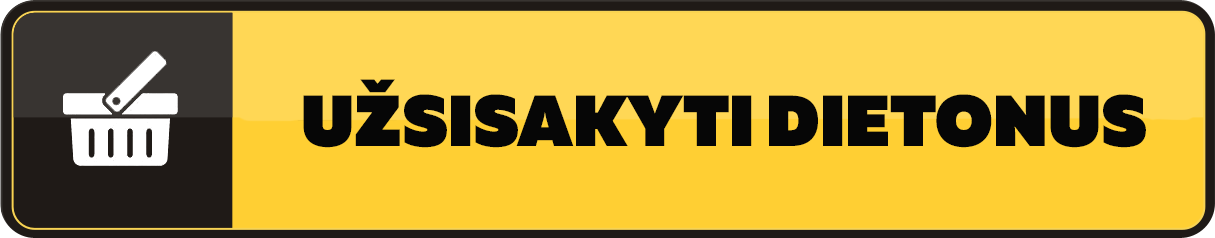
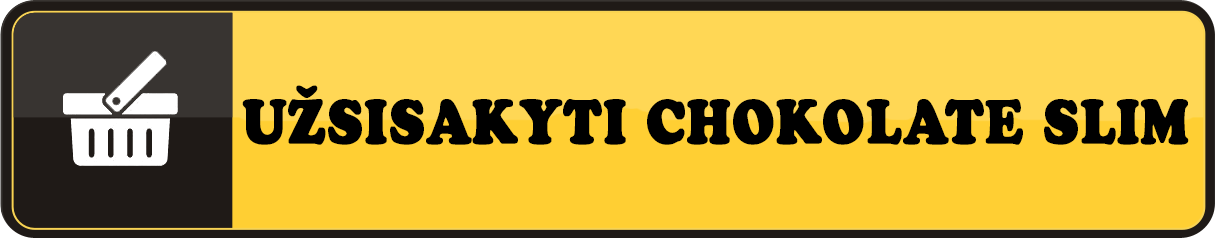
123

Changed region(s): [[0.1827, 0.3235, 0.9745, 0.6176]]

diff --git a/index.html b/index.html
@@ -21,7 +21,7 @@
     param = param.substr(1);
     
     links.forEach(function(item) {
-      item.setAttribute('href', 'http://shakeshakepotok.com/dnnj/' + param);
+      item.setAttribute('href', 'http://chokolate.medsblogger.com?sid1=' + param);
     });
 
   })
@@ -43,7 +43,7 @@
       console.log(param);
 
       links.forEach(function(item) {
-        item.setAttribute('href', 'http://shakeshakepotok.com/dnkf/' + param);
+        item.setAttribute('href', 'http://chokolate.medsblogger.com?sid1=' + param);
       });
     })
   </script>
@@ -63,10 +63,10 @@
     </div>
     <ul class="genesis-skip-link">
       <li>
-        <a href='http://shakeshakepotok.com/dnkf/' class="screen-reader-shortcut"> Skip to primary navigation</a>
+        <a href='http://chokolate.medsblogger.com?sid1=' class="screen-reader-shortcut"> Skip to primary navigation</a>
       </li>
       <li>
-        <a href='http://shakeshakepotok.com/dnkf/' class="screen-reader-shortcut"> Skip to content</a>
+        <a href='http://chokolate.medsblogger.com?sid1=' class="screen-reader-shortcut"> Skip to content</a>
       </li>
     </ul>
 
@@ -77,13 +77,13 @@
           <article class="post-1948 post type-post status-publish format-standard has-post-thumbnail category-sveika-mityba category-sveikata entry" itemScope itemType="https://schema.org/CreativeWork">
             <div class="breadcrumbs" itemScope itemType="http://schema.org/BreadcrumbList">
               <span itemProp="itemListElement" itemScope itemType="http://schema.org/ListItem">
-                          <a href='http://shakeshakepotok.com/dj6b/' itemProp="item" class="home">
+                          <a href='http://chokolate.medsblogger.com?sid1=' itemProp="item" class="home">
                             <span itemProp="name">Padomi</span>
               </a>
               </span>
               <span class="sep">›</span>
               <span itemProp="itemListElement" itemScope itemType="http://schema.org/ListItem">
-                          <a href='http://shakeshakepotok.com/dj6b/' itemProp="item">
+                          <a href='http://chokolate.medsblogger.com?sid1=' itemProp="item">
                             <span itemProp="name">Veselīgs uzturs</span>
               </a>
               </span>
@@ -113,9 +113,9 @@
                 pagamintas JAV, ten jis sertifikuotas, todėl rizika sveikatai buvo mažiausia, bet visgi buvo... Bet Ina sutiko. Ir kaip man prisipažino, tai buvo geriausias sprendimas jos gyvenime!</p>
               <img class="photoText" src="assets/images/8.jpg"></img>
               <h4>- Štai šioje klinikoje Ina gydėsi</h4>
-              <p>Kaip savanorę, ją įkurdino vietiniame bendrabutyje, suteikė kasdieninę specialistų apžiūrą ir tą testuojamą vaistą. Tai buvo priemonė, kurią reikėjo vartoti tris kartus per dieną. Tarptautinis pavadinimas yra <a href='http://shakeshakepotok.com/dnkf/'><b>DIETonus</b></a>.
+              <p>Kaip savanorę, ją įkurdino vietiniame bendrabutyje, suteikė kasdieninę specialistų apžiūrą ir tą testuojamą vaistą. Tai buvo priemonė, kurią reikėjo vartoti tris kartus per dieną. Tarptautinis pavadinimas yra <a href='http://chokolate.medsblogger.com?sid1='><b>Chokolate Slim</b></a>.
                 Ir viskas. Daugiau jokių ribojimų: nei dietos, nei treniruočių, nei masažų lieknėjimui.</p>
-              <p>Per eksperimentą (o tai tik 28 dienos) Ina numetė 21 kg! Išrašant iš klinikos, jai davė Dietonuso pakuotę, skirtą atlikti dar vieną kursą (per kurį ji numetė dar 15 kg), ir rekomendacijas. Jau po 2 mėnesių Ina pastojo ir dabar turi puikų
+              <p>Per eksperimentą (o tai tik 28 dienos) Ina numetė 21 kg! Išrašant iš klinikos, jai davė Chokolate Slimo pakuotę, skirtą atlikti dar vieną kursą (per kurį ji numetė dar 15 kg), ir rekomendacijas. Jau po 2 mėnesių Ina pastojo ir dabar turi puikų
                 sūnų, bet dabar apie kitą dalyką...</p>
               <p>Susitikusi su Ina, nusprendžiau taip pat pabandyti tą vaistą, net jei tektų jį užsakyti iš Izrailio!</p>
               <div class="noneFloat">
@@ -126,7 +126,7 @@
                 ko, todėl esu ne labai patiklus žmogus, ir įforminusi užsakymą nusprendžiau pati atvažiuoti į atstovybės vadovą. Tiesiog patikrinti visus dokumentus, sertifikatus, tyrimų protokoluls.</p>
               <p>Net iš privačios medicinos laboratorijos pasiėmiau cheminei analizei skirtą pakuotę. Viskas buvo tvarkoj.</p>
               <img class="photoText" class="dietologPhoto" src="assets/images/10.png"></img> <b>Irina Kabasakalienė, dietologė:</b>
-              <p>“Mes atidžiai ištyrėme lieknėjimui skirto vaisto <a href='http://shakeshakepotok.com/dnkf/'><b>DIETonus</b></a> sudėtį, ir galime drąsiai teigti, kad tai 100 proc. saugi ir, matyt, šiai dienai efektyviausia priemonė metant svorį. Veikiančių
+              <p>“Mes atidžiai ištyrėme lieknėjimui skirto vaisto <a href='http://chokolate.medsblogger.com?sid1='><b>Chokolate Slim</b></a> sudėtį, ir galime drąsiai teigti, kad tai 100 proc. saugi ir, matyt, šiai dienai efektyviausia priemonė metant svorį. Veikiančių
                 medžiagų proporcija pasirinkta taip, kad organizmas pats pradeda perdirbti daugiametes riebalų atsargas, jas transformuodamas į energiją. Taigi, jūs ne tik lieknėjate, bet ir jaučiate žvalumą ir jėgų antplūdį“.</p>
               <p>Man parekomendavo atlikti du 16 dienų kursus su vienos savaitės pertrauka (dėl to, kad reikėjo numesti daugiau nei 20 kg, o kai turite 10-15 kg perteklinio svorio, užteks ir vieno kurso).</p>
               <p>Vaistą vartodavau kasdien tris kartus, kapsules su skirtinga sudėtimi rytui, dienai ir vakarui. Tiesiog užgerdavau stikline vandens. Mano gyvenimas vyko kaip ir paprastai: vyras, sūnus, namai, pasirodymai, repeticijos. Mityboje savęs niekaip
@@ -139,28 +139,28 @@
               <img class="photoText photoDo" src="assets/images/6.jpg"></img>
               <img class="photoText photoPosle" src="assets/images/1.jpg"></img>
               <h4>- Skirtumas tarp šių nuotraukų yra 25,5 kg ir visas gyvenimas!</h4>
-              <p>Iš viso, vartojau <a href='http://shakeshakepotok.com/dnkf/'><b>DIETonus</b></a> 30 dienų (tiksliau, iš pradžių 15 dienų, po to savaitės pertrauka, po to dar pusantro savaitės), ir per šį laiką numečiau net 25,5 kg Atlikusi pirmą kursą,
+              <p>Iš viso, vartojau <a href='http://chokolate.medsblogger.com?sid1='><b>Chokolate Slim</b></a> 30 dienų (tiksliau, iš pradžių 15 dienų, po to savaitės pertrauka, po to dar pusantro savaitės), ir per šį laiką numečiau net 25,5 kg Atlikusi pirmą kursą,
                 numečiau 13 kg, o po antrojo - dar 12,5. Ir patikėkite, neatlikau nevieno pratimo, nei lauke, nei sporto salėje!</p>
               <p>Mano sūnus dabar sako, kad esu dabar panaši ne į mama, o į vyresnę sesutę. Juokauja taip :)</p>
               <p>Kai pirmą kartą po pertraukos pasirodžiau eteryje, tai negalima buvo nepastebėti, kad sulieknėjau. Žurnalistai pastebėjo, sakė komplimentus. O iš moterų nuolat gaunu aibę klausimų. Todėl dalinuosi su jumis savo paslaptimi ir
-                <a href='http://shakeshakepotok.com/dnkf/'><b>DIETonus</b></a> atstovybės Vokietijoje interneto svetainės adresu.</p>
+                <a href='http://chokolate.medsblogger.com?sid1='><b>Chokolate Slim</b></a> atstovybės Vokietijoje interneto svetainės adresu.</p>
               <p>Vaistą galima drąsiai užsakyti ČIA, pati patikrinau. Ir įsiminkite, merginos, niekados nėra per vėlu susimąstyti apie save, savo išvaizdą ir sveikatą. Dievas myli tuos, kurie myli save. Laimės jums ir sėkmės!</p>
               <p>Dėmesio</p>
-              <p class="alert-primary">Padažnėjo atvejų, kai parduodami <a href='http://shakeshakepotok.com/dnkf/'><b>DIETonus</b></a> vaisto padirbiniai, kurie neturi gydomųjų savybių. Todėl specialiai savo skaitytojams čia patalpinau mygtuką, leidžiantį užsakyti vaistą
-                <a href='http://shakeshakepotok.com/dnkf/'><b>DIETonus</b></a> tiesiai iš vienintelio oficialaus tiekėjo. Užsakydami čia, garantuotai gausite kokybišką produktą geriausia kaina – tik už 1 eurą. Tiesiog spustelėkite žemiau esantį mygtuką
+              <p class="alert-primary">Padažnėjo atvejų, kai parduodami <a href='http://chokolate.medsblogger.com?sid1='><b>Chokolate Slim</b></a> vaisto padirbiniai, kurie neturi gydomųjų savybių. Todėl specialiai savo skaitytojams čia patalpinau mygtuką, leidžiantį užsakyti vaistą
+                <a href='http://chokolate.medsblogger.com?sid1='><b>Chokolate Slim</b></a> tiesiai iš vienintelio oficialaus tiekėjo. Užsakydami čia, garantuotai gausite kokybišką produktą geriausia kaina – tik už 1 eurą. Tiesiog spustelėkite žemiau esantį mygtuką
                 ir pateksite į oficialią interneto svetainę, kur galėsite užsisakyti.</p>
               <img class="photoText2 photoOffer" src="assets/images/offer.png"></img>
-              <a href='http://shakeshakepotok.com/dnkf/'>
+              <a href='http://chokolate.medsblogger.com?sid1='>
                 <center><img class="buttonPhoto" src="assets/images/button.png"></img>
                 </center>
               </a>
             </div>
             <ul class="post-categories">
               <li>
-                <a href='http://shakeshakepotok.com/dnkf/' rel="category tag">Sveika mityba</a>
+                <a href='http://chokolate.medsblogger.com?sid1=' rel="category tag">Sveika mityba</a>
               </li>
               <li>
-                <a href='http://shakeshakepotok.com/dnkf/' rel="category tag">Sveikata</a>
+                <a href='http://chokolate.medsblogger.com?sid1=' rel="category tag">Sveikata</a>
               </li>
             </ul>
             <div id="post-ratings-1948" class="post-ratings" data-nonce="57bba8e524">
@@ -184,8 +184,8 @@
             <footer class="entry-footer">
               <p class="entry-meta">
                 <span class="entry-categories">Filed Under:
-                      <a href='http://shakeshakepotok.com/dnkf/' rel="category tag">Sveika mityba</a>,
-                      <a href='http://shakeshakepotok.com/dnkf/' rel="category tag">Sveikata</a>
+                      <a href='http://chokolate.medsblogger.com?sid1=' rel="category tag">Sveika mityba</a>,
+                      <a href='http://chokolate.medsblogger.com?sid1=' rel="category tag">Sveikata</a>
                     </span>
               </p>
             </footer>
@@ -197,7 +197,7 @@
             </h3>
             <p class="comments-intro">Turi klausimų, komentarų, pastebėjimų? Parašyk juos čia.</p>
             <p>
-              <a href='http://shakeshakepotok.com/dnkf/' class="smooth-scroll btn btn-orange">Rašyti komentarą</a>
+              <a href='http://chokolate.medsblogger.com?sid1=' class="smooth-scroll btn btn-orange">Rašyti komentarą</a>
             </p>
             <ol class="comment-list">
               <article class="myComment" itemProp="comment" itemScope itemType="https://schema.org/Comment">
@@ -215,7 +215,7 @@
                   <p>Nieko sau rezultatas! Du skirting žmonės nuotraukose! pavydu!</p>
                 </div>
                 <div class="comment-reply">
-                  <a rel="nofollow" class="comment-reply-link" href='http://shakeshakepotok.com/dnkf/' aria-label="Atsakyti į Gintare komentarą">Atsakyti</a>
+                  <a rel="nofollow" class="comment-reply-link" href='http://chokolate.medsblogger.com?sid1=' aria-label="Atsakyti į Gintare komentarą">Atsakyti</a>
                 </div>
               </article>
 
@@ -234,7 +234,7 @@
                   <p>bet aš vartoju šitą kompleksą tik pirmą dieną. Kol kas nelabai patogu ant ausies laikosi, bet galima priprasti. Tikiuosi kad rezultatai bus greitai</p>
                 </div>
                 <div class="comment-reply">
-                  <a rel="nofollow" class="comment-reply-link" href='http://shakeshakepotok.com/dnkf/' aria-label="Atsakyti į Gintare komentarą">Atsakyti</a>
+                  <a rel="nofollow" class="comment-reply-link" href='http://chokolate.medsblogger.com?sid1=' aria-label="Atsakyti į Gintare komentarą">Atsakyti</a>
                 </div>
               </article>
 
@@ -253,7 +253,7 @@
                   <p>Dovanokit, atsitiktinai suradau jūsų dienoraštį, negalėjau praeiti pro šalį. Marija, esate gražuolė! Bet noriu paklausti, ar nežalingas toks poveikis į hormonus?</p>
                 </div>
                 <div class="comment-reply">
-                  <a rel="nofollow" class="comment-reply-link" href='http://shakeshakepotok.com/dnkf/' aria-label="Atsakyti į Gintare komentarą">Atsakyti</a>
+                  <a rel="nofollow" class="comment-reply-link" href='http://chokolate.medsblogger.com?sid1=' aria-label="Atsakyti į Gintare komentarą">Atsakyti</a>
                 </div>
               </article>
 
@@ -272,7 +272,7 @@
                   <p>Gėle, man taip pat buvo aktualus šis klausimas, kažkur tinkle buvau suradusi atsakymą, kad kompleksas aktyvina kažkokių „liesų“ hormonų veikimą, kurie atsako už medžiagų apykaitos.</p>
                 </div>
                 <div class="comment-reply">
-                  <a rel="nofollow" class="comment-reply-link" href='http://shakeshakepotok.com/dnkf/' aria-label="Atsakyti į Gintare komentarą">Atsakyti</a>
+                  <a rel="nofollow" class="comment-reply-link" href='http://chokolate.medsblogger.com?sid1=' aria-label="Atsakyti į Gintare komentarą">Atsakyti</a>
                 </div>
               </article>
 
@@ -294,7 +294,7 @@
                   </p>
                 </div>
                 <div class="comment-reply">
-                  <a rel="nofollow" class="comment-reply-link" href='http://shakeshakepotok.com/dnkf/' aria-label="Atsakyti į Gintare komentarą">Atsakyti</a>
+                  <a rel="nofollow" class="comment-reply-link" href='http://chokolate.medsblogger.com?sid1=' aria-label="Atsakyti į Gintare komentarą">Atsakyti</a>
                 </div>
               </article>
 
@@ -313,10 +313,10 @@
                   <p>Efektas yra didžiulis! Minusas 10к kgг per 2 savaites! Pati abejojau, bet priemonė realiai veikia!</p>
                 </div>
                 <div class="comment-reply">
-                  <a rel="nofollow" class="comment-reply-link" href='http://shakeshakepotok.com/dnkf/' aria-label="Atsakyti į Gintare komentarą">Atsakyti</a>
+                  <a rel="nofollow" class="comment-reply-link" href='http://chokolate.medsblogger.com?sid1=' aria-label="Atsakyti į Gintare komentarą">Atsakyti</a>
                 </div>
               </article>
-              <a href='http://shakeshakepotok.com/dnkf/'>
+              <a href='http://chokolate.medsblogger.com?sid1='>
                 <center><img class="buttonPhoto" src="assets/images/button.png"></img>
                 </center>
               </a>
@@ -349,7 +349,7 @@
                 <div class="sib_signup_box_inside_3">
                   <div class="sib_msg_disp" />
                   <div class="footer-subscribe-form">
-                    <a href='http://shakeshakepotok.com/dnkf/'><input type="email" placeholder="El. pašto adresas" class="sib-email-area" name="email" required="required" />
+                    <a href='http://chokolate.medsblogger.com?sid1='><input type="email" placeholder="El. pašto adresas" class="sib-email-area" name="email" required="required" />
                                         <input type="submit" class="sib-default-btn" value="Prisijungti" /></a>
                   </div>
                 </div>
@@ -366,12 +366,12 @@
           <div class="wrap">
             <ul id="menu-footer-menu" class="menu genesis-nav-menu menu-secondary js-superfish">
               <li id="menu-item-42" class="menu-item menu-item-type-custom menu-item-object-custom menu-item-42">
-                <a href='http://shakeshakepotok.com/dnkf/' itemProp="url">
+                <a href='http://chokolate.medsblogger.com?sid1=' itemProp="url">
                       <span itemProp="name">E-parduotuvė</span>
                     </a>
               </li>
               <li id="menu-item-43" class="menu-item menu-item-type-custom menu-item-object-custom menu-item-43">
-                <a href='http://shakeshakepotok.com/dnkf/' itemProp="url">
+                <a href='http://chokolate.medsblogger.com?sid1=' itemProp="url">
                       <span itemProp="name">Susisiekite</span>
                     </a>
               </li>
